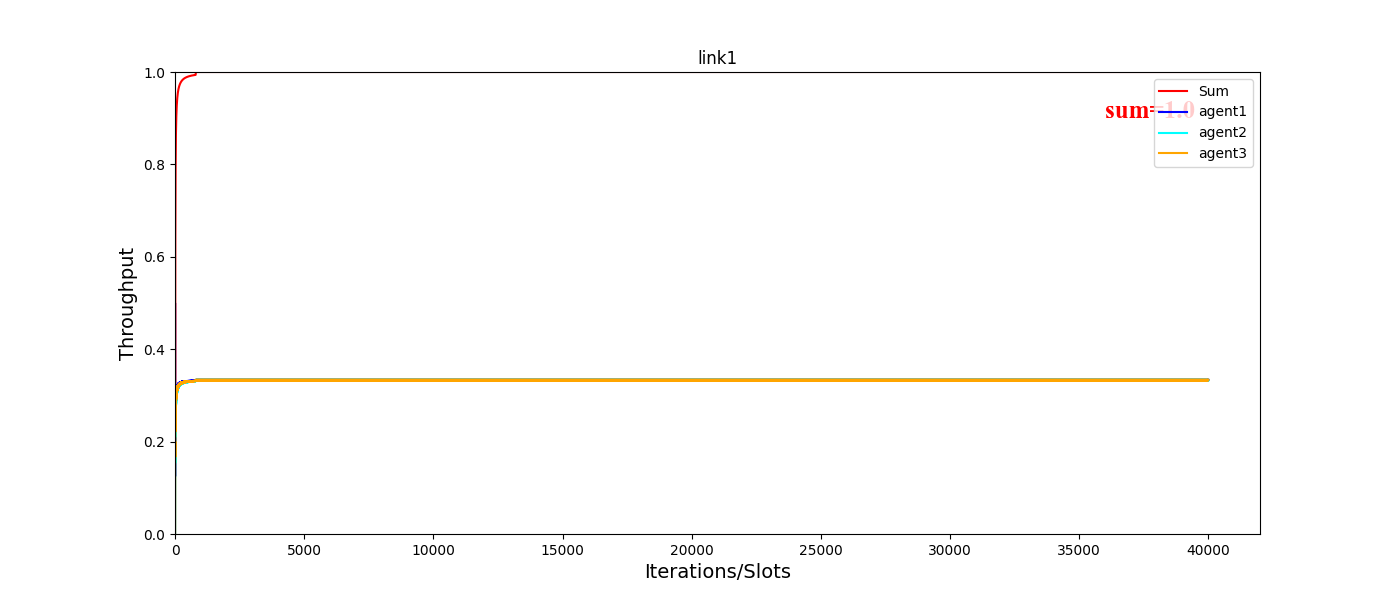
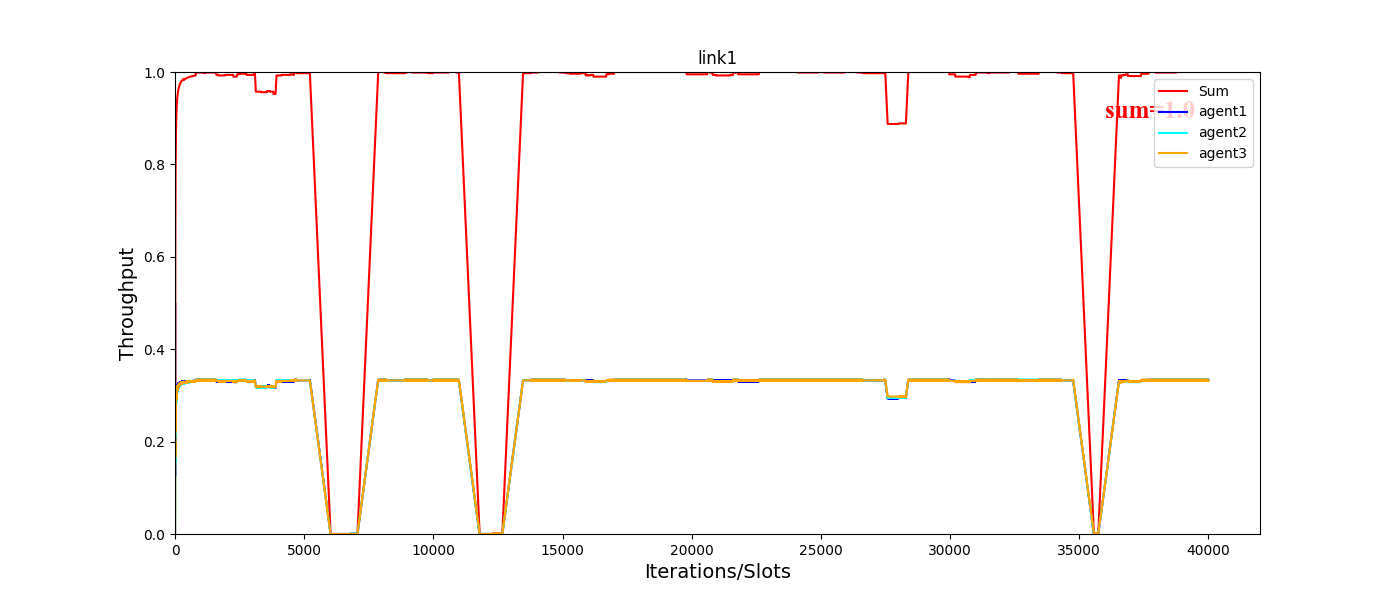
update

diff --git a/agent.py b/agent.py
@@ -56,7 +56,7 @@ class Agent: # 训练使用MADDPG，测试时只需要使用actor而不需要cri
         self.states_mem = np.concatenate([self.states_mem[6:], link_obs, self.normed_d2lt])
             
             
-    def take_action(self, explore=False):
+    def take_action(self, explore=False, eps=0.001):
         ''' eps表示随机动作生成的概率，默认为0.0%'''
         # 读取各个agent的state,并转变格式
         obs = torch.tensor(np.array([self.states_mem]), dtype=torch.float, device=self.device)
@@ -64,7 +64,7 @@ class Agent: # 训练使用MADDPG，测试时只需要使用actor而不需要cri
         if explore:
             action = gumbel_softmax(action)
         else:
-            action = onehot_from_logits(action, eps=0.001)
+            action = onehot_from_logits(action, eps=0.01)
         # detach(): 返回一个新的Tensor，但返回的结果是没有梯度的;numpy()将tensor转变为数组；[0]相当于去掉一个[]
         self.last_action = action.detach().cpu().numpy()[0]
         return self.last_action
